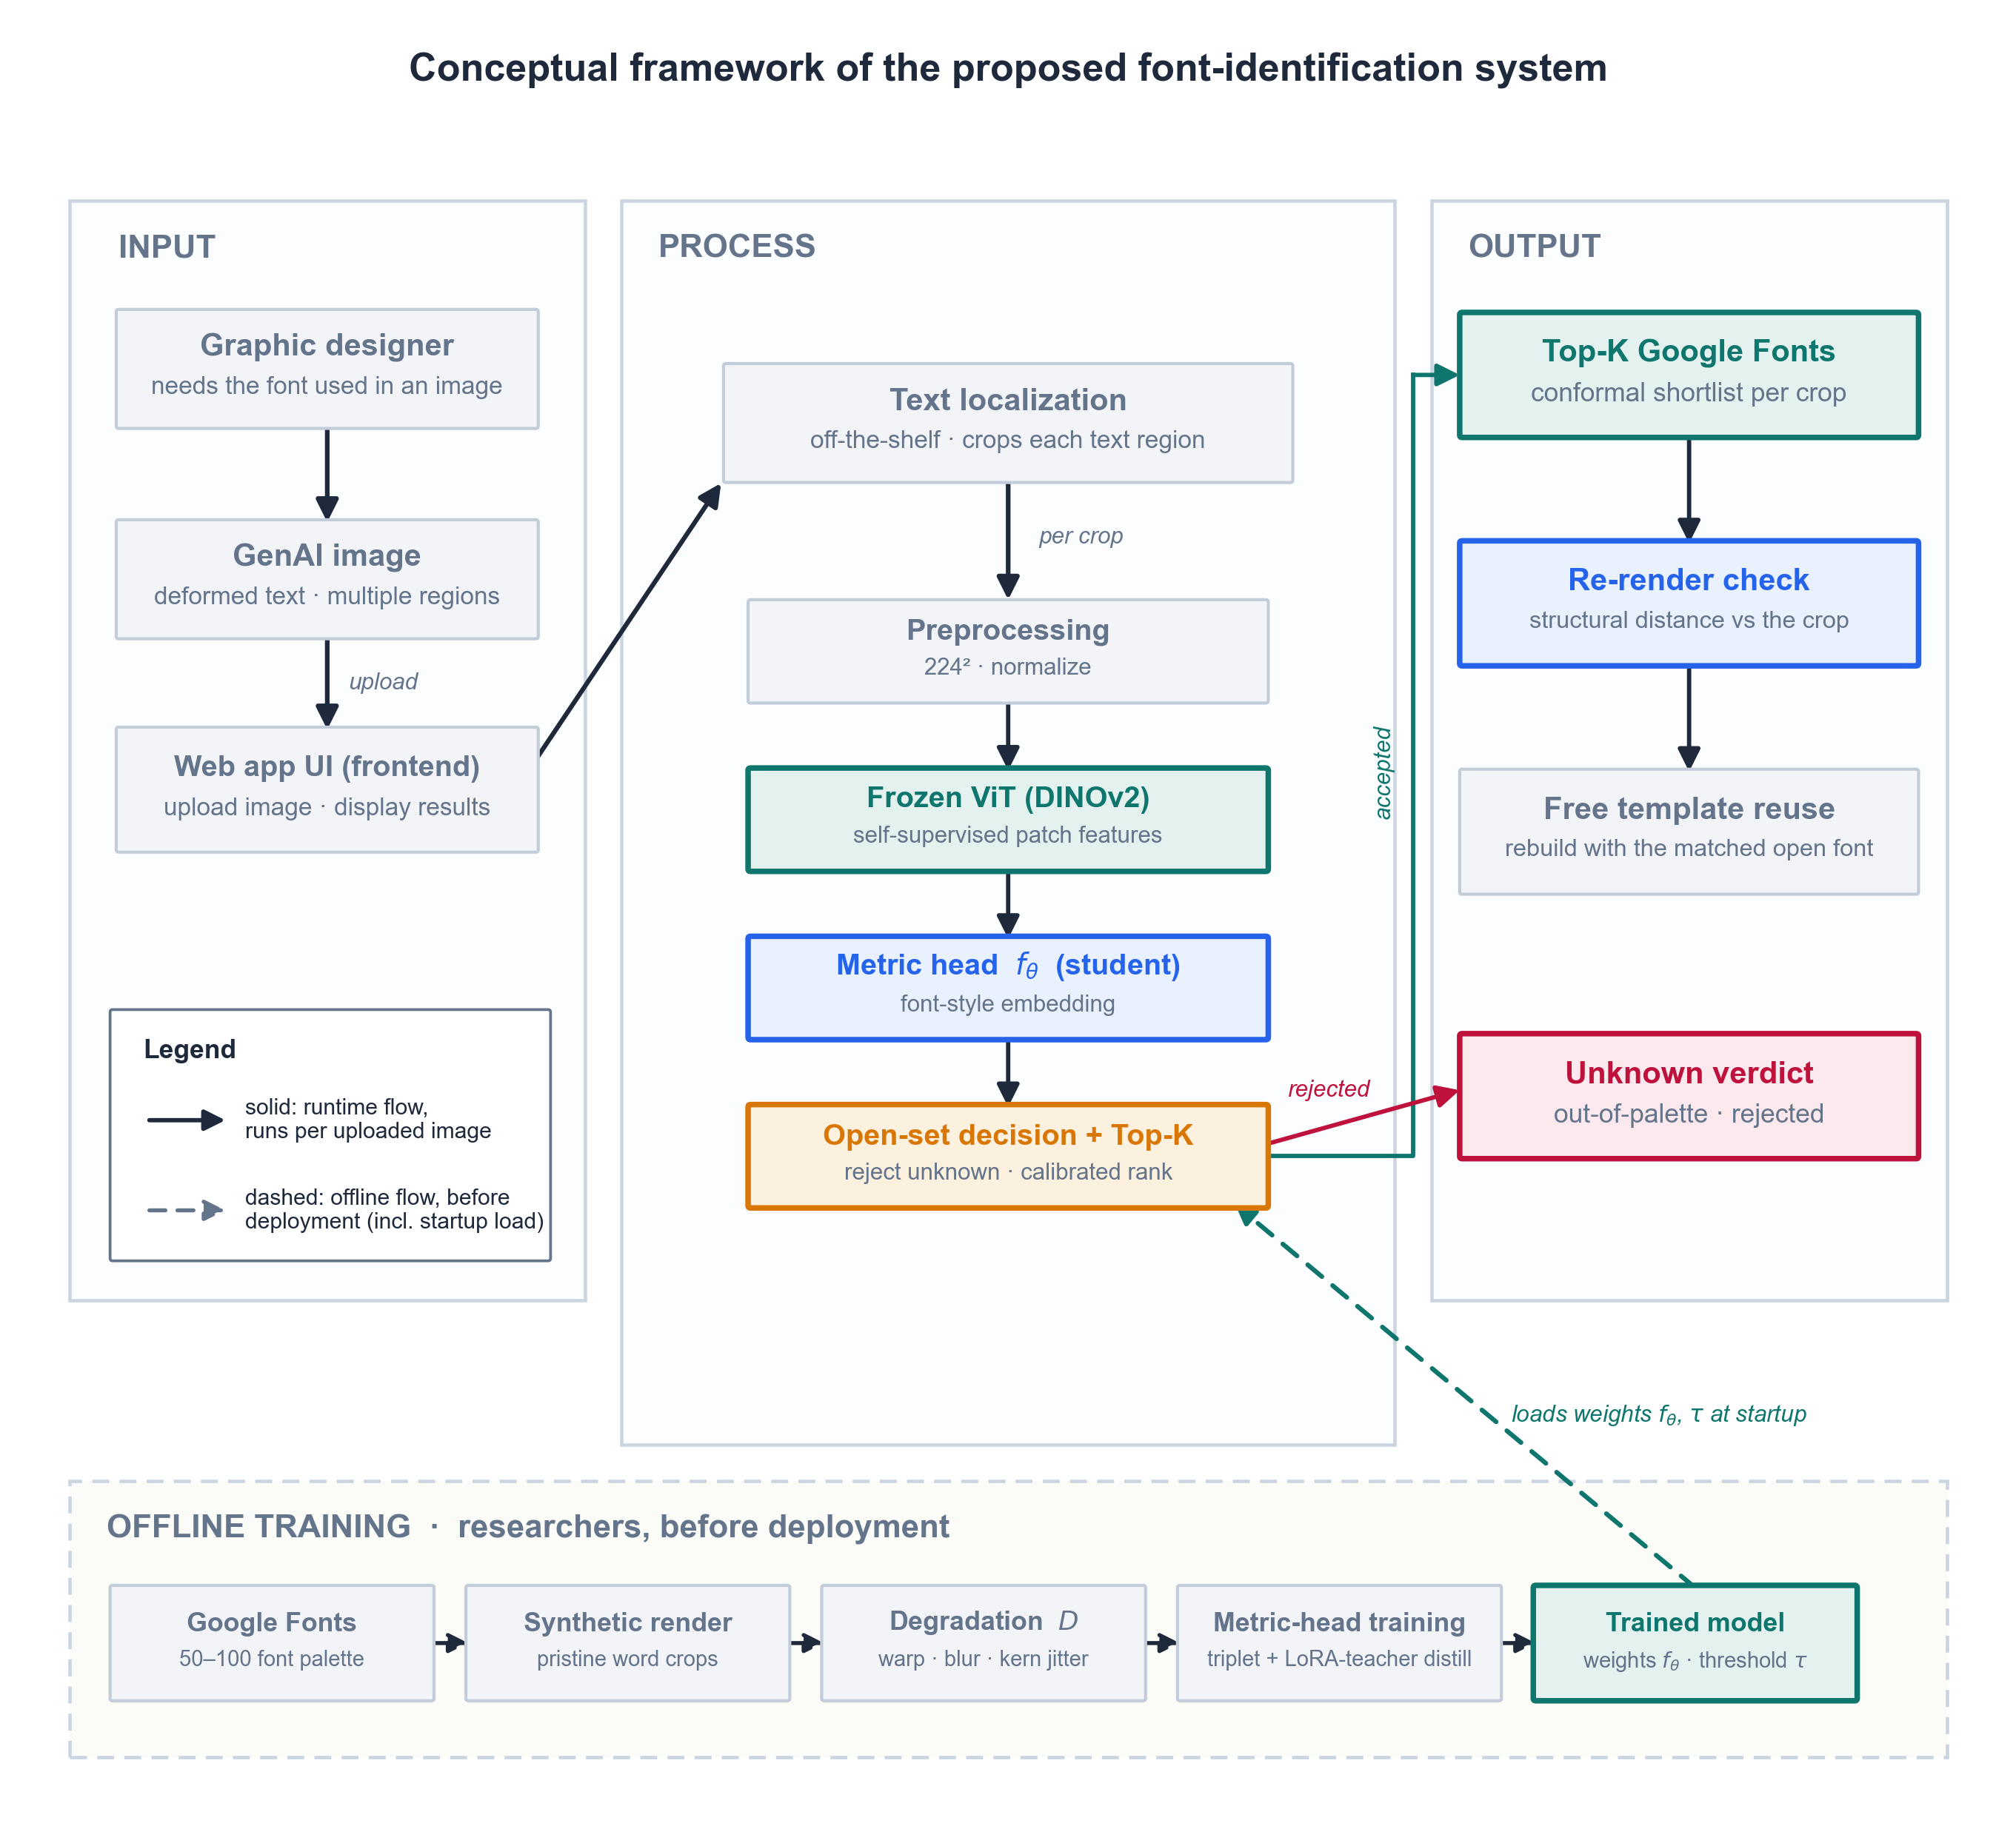
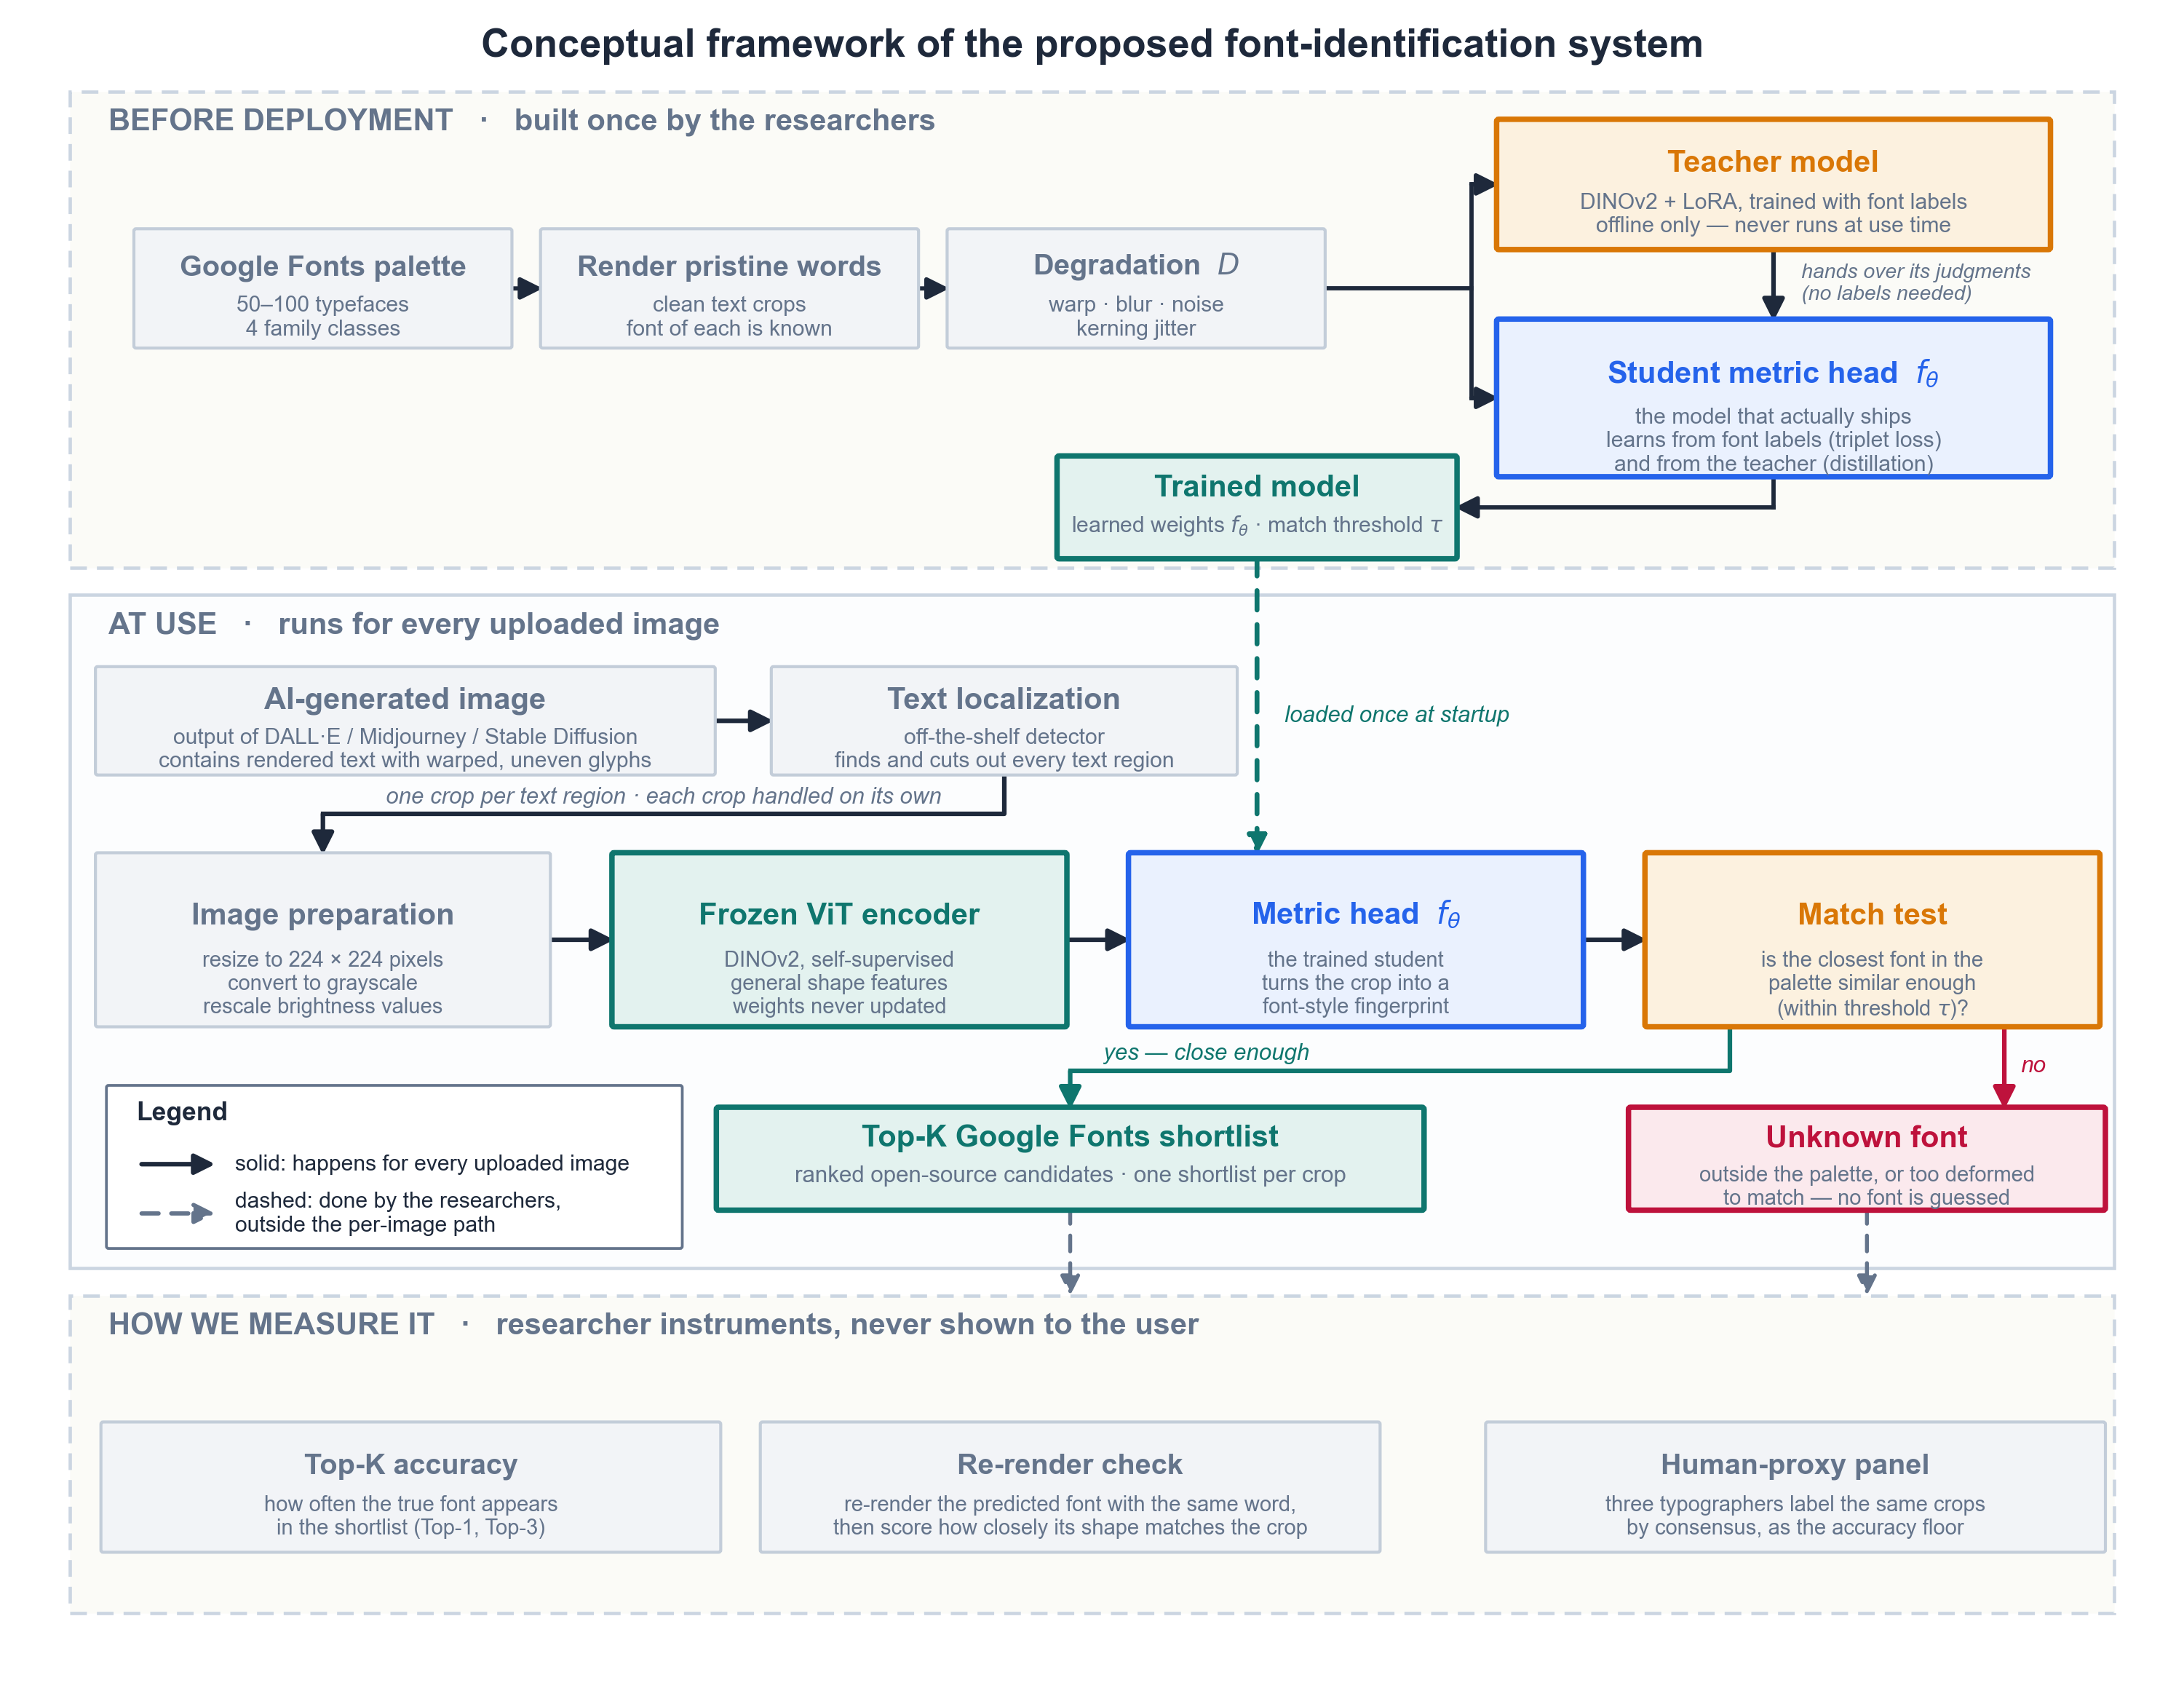
feat(methodology): update conceptual framework

Changed region(s): [[0.0312, 0.0, 0.968, 0.9654], [0.3747, 0.3114, 0.406, 0.3426], [0.3435, 0.2491, 0.3747, 0.2803]]

diff --git a/src/visualization/conceptual_framework.py b/src/visualization/conceptual_framework.py
@@ -1,14 +1,23 @@
-"""Figure 8 (Ch4) — Conceptual framework: IPO view of the font-identification
-system. Input column holds the designer, the GenAI image, and the web-app UI
-(the system boundary); the Process column is the backend recognition pipeline,
-the off-the-shelf localizer followed by the per-crop model stages; the Output
-column holds the verified shortlist / unknown verdict. An enclosed training band
-(render -> degrade -> triplet + LoRA-teacher distillation) ends in the trained
-model (weights f_theta + threshold tau) the engine loads at startup.
+"""Figure 8 (Ch4 §4.4.2) — Conceptual framework of the font-identification
+system, drawn as three horizontal bands rather than an input-process-output
+grid:
+
+  BEFORE DEPLOYMENT  (dashed)  palette -> render -> degrade -> teacher
+                               -> student -> trained model (f_theta, tau)
+  AT USE             (solid)   AI image -> localize -> per crop: prepare ->
+                               frozen ViT -> student head -> match test ->
+                               Top-K shortlist or "unknown font"
+  HOW WE MEASURE IT  (dashed)  Top-K accuracy, re-render check, human panel
+                               — researcher instruments, never user-facing
+
+Layout: the trained model sits directly above the runtime metric head so the
+startup hand-off is a single vertical dashed drop; the offline pipeline row is
+centred on the teacher/student fork; the re-render check is aligned under the
+Top-K shortlist it consumes.
 Contrast: faint bands < dimmed support boxes < full-colour element boxes.
 Line convention (drawn as an in-figure legend):
-  solid arrow  = runtime flow, runs for every uploaded image
-  dashed arrow = offline flow, run before deployment (incl. the startup load)
+  solid arrow  = runs for every uploaded image
+  dashed arrow = researcher-side, outside the per-image path
 Pure matplotlib: no Graphviz binary required."""
 import matplotlib.pyplot as plt
 import matplotlib.patches as mpatches
@@ -24,138 +33,179 @@ def _dashed_arrow(ax, p_from, p_to, color, lw=1.3):
 
 # Three contrast tiers: faint bands < dimmed support boxes < full element boxes.
 DIM = dict(fc="#F2F4F7", ec="#C3CDD9", tc=COLORS["muted"], lw=1.0)  # support
-BAND_FC = "#FCFDFE"        # lowest opacity, like the system-architecture bands
-CONTAINER_FC = "#FBFCFD"
 
 
-def _band(ax, x0, y0, x1, y1, label, dashed=False, fc=BAND_FC, label_x=None):
+def _band(ax, x0, y0, x1, y1, label, dashed=False, fc="#FCFDFE"):
     ls = (0, (5, 3)) if dashed else "solid"
     ax.add_patch(mpatches.Rectangle((x0, y0), x1 - x0, y1 - y0, fc=fc,
                                     ec="#CBD5E1", lw=1.1, linestyle=ls,
                                     zorder=0))
-    ax.text(label_x if label_x else x0 + 0.3, y1 - 0.4, label, ha="left",
-            va="center", fontsize=10.5, weight="bold", color=COLORS["muted"],
-            zorder=4)
+    ax.text(x0 + 0.35, y1 - 0.28, label, ha="left", va="center", fontsize=10,
+            weight="bold", color=COLORS["muted"], zorder=4)
 
 
 def create_figure():
     apply_style()
-    fig, ax = plt.subplots(figsize=(11.4, 10.4))
-    ax.set_xlim(0, 16)
-    ax.set_ylim(0, 14.8)
+    fig, ax = plt.subplots(figsize=(12.6, 9.7))
+    ax.set_xlim(0, 19.4)
+    ax.set_ylim(0, 14.9)
     ax.axis("off")
 
-    # ---- Enclosed bands ----
-    _band(ax, 0.35, 4.2, 4.55, 13.35, "INPUT", label_x=0.75)
-    _band(ax, 4.85, 3.0, 11.15, 13.35, "PROCESS")
-    _band(ax, 11.45, 4.2, 15.65, 13.35, "OUTPUT")
-    _band(ax, 0.35, 0.4, 15.65, 2.7,
-          "OFFLINE TRAINING  ·  researchers, before deployment",
+    _band(ax, 0.4, 9.95, 19.0, 14.3,
+          "BEFORE DEPLOYMENT   ·   built once by the researchers",
+          dashed=True, fc="#FBFBF7")
+    _band(ax, 0.4, 3.55, 19.0, 9.7,
+          "AT USE   ·   runs for every uploaded image")
+    _band(ax, 0.4, 0.4, 19.0, 3.3,
+          "HOW WE MEASURE IT   ·   researcher instruments, never shown to the user",
           dashed=True, fc="#FBFBF7")
 
-    # ---- INPUT: designer -> image -> web-app UI (system boundary) ----
-    draw_box(ax, 2.45, 11.95, 3.4, 0.95, "Graphic designer",
-             "needs the font used in an image", sub_fs=8, **DIM)
-    draw_box(ax, 2.45, 10.2, 3.4, 0.95, "GenAI image",
-             "deformed text · multiple regions", sub_fs=8, **DIM)
-    draw_box(ax, 2.45, 8.45, 3.4, 1.0, "Web app UI (frontend)",
-             "upload image · display results", fs=9.5, sub_fs=8, **DIM)
-    draw_arrow(ax, (2.45, 11.475), (2.45, 10.675), lw=1.5)
-    draw_arrow(ax, (2.45, 9.725), (2.45, 8.95), lw=1.5)
-    ax.text(2.62, 9.34, "upload", ha="left", va="center", fontsize=7.5,
-            color=COLORS["muted"], style="italic", zorder=4)
-    draw_arrow(ax, (4.15, 8.7), (5.66, 11.0), lw=1.5)    # UI -> localizer
-
-    # ---- Legend (two line kinds only) ----
-    ax.add_patch(mpatches.FancyBboxPatch(
-        (0.7, 4.55), 3.55, 2.05, boxstyle="round,pad=0.02", fc="white",
-        ec=COLORS["muted"], lw=0.9, zorder=3))
-    ax.text(0.95, 6.28, "Legend", ha="left", va="center", fontsize=8.5,
-            weight="bold", color=COLORS["ink"], zorder=4)
-    ax.annotate("", xy=(1.62, 5.7), xytext=(1.0, 5.7), zorder=5,
-                arrowprops=dict(arrowstyle="-|>", color=COLORS["ink"], lw=1.4,
-                                mutation_scale=14, shrinkA=0, shrinkB=0))
-    ax.text(1.78, 5.7, "solid: runtime flow,\nruns per uploaded image",
-            ha="left", va="center", fontsize=7.2, color=COLORS["ink"], zorder=4)
-    ax.annotate("", xy=(1.62, 4.95), xytext=(1.0, 4.95), zorder=5,
-                arrowprops=dict(arrowstyle="-|>", color=COLORS["muted"], lw=1.3,
-                                mutation_scale=14, shrinkA=0, shrinkB=0,
-                                linestyle=(0, (4, 3))))
-    ax.text(1.78, 4.95, "dashed: offline flow, before\ndeployment (incl. startup load)",
-            ha="left", va="center", fontsize=7.2, color=COLORS["ink"], zorder=4)
-
-    # ---- PROCESS: localizer, then the model stages (no nested containers) ----
-    draw_box(ax, 8.0, 11.5, 4.6, 0.95, "Text localization",
-             "off-the-shelf · crops each text region", sub_fs=8, **DIM)
-    draw_arrow(ax, (8.0, 11.025), (8.0, 10.03), lw=1.5)
-    ax.text(8.25, 10.55, "per crop", ha="left", va="center", fontsize=7.5,
-            color=COLORS["muted"], style="italic", zorder=4)
-
-    # Preprocessing = support (dim); the three model stages = element (full).
-    draw_box(ax, 8.0, 9.6, 4.2, 0.82, "Preprocessing", "224² · normalize",
-             fs=9.5, sub_fs=7.5, **DIM)
-    for cy, t, s, fc, ec in [
-        (8.2, "Frozen ViT (DINOv2)", "self-supervised patch features",
-         COLORS["teal_bg"], COLORS["teal"]),
-        (6.8, "Metric head  $f_\\theta$  (student)", "font-style embedding",
-         COLORS["blue_bg"], COLORS["blue"]),
-        (5.4, "Open-set decision + Top-K", "reject unknown · calibrated rank",
-         COLORS["orange_bg"], COLORS["orange"]),
-    ]:
-        draw_box(ax, 8.0, cy, 4.2, 0.82, t, s, fc=fc, ec=ec, tc=ec,
-                 fs=9.5, sub_fs=7.5, lw=1.8)
-    for y_from, y_to in [(9.19, 8.61), (7.79, 7.21), (6.39, 5.81)]:
-        draw_arrow(ax, (8.0, y_from), (8.0, y_to), lw=1.4)
-
-    # ---- OUTPUT: shortlist -> re-render check -> reuse, or unknown ----
-    draw_box(ax, 13.55, 11.9, 3.7, 1.0, "Top-K Google Fonts",
-             "conformal shortlist per crop", fc=COLORS["teal_bg"],
-             ec=COLORS["teal"], tc=COLORS["teal"], lw=1.8)
-    draw_box(ax, 13.55, 10.0, 3.7, 1.0, "Re-render check",
-             "structural distance vs the crop", fc=COLORS["blue_bg"],
-             ec=COLORS["blue"], tc=COLORS["blue"], sub_fs=7.8, lw=1.8)
-    draw_box(ax, 13.55, 8.1, 3.7, 1.0, "Free template reuse",
-             "rebuild with the matched open font", sub_fs=7.8, **DIM)
-    draw_box(ax, 13.55, 5.9, 3.7, 1.0, "Unknown verdict",
-             "out-of-palette · rejected", fc=COLORS["rose_bg"],
-             ec=COLORS["rose"], tc=COLORS["rose"], lw=1.8)
-
-    # decision -> Top-K (accepted, orthogonal riser) and -> Unknown (rejected)
-    ax.plot([10.1, 11.3, 11.3], [5.4, 5.4, 11.9], color=COLORS["teal"],
-            lw=1.4, zorder=2)
-    draw_arrow(ax, (11.3, 11.9), (11.68, 11.9), lw=1.4, color=COLORS["teal"])
-    ax.text(11.15, 8.6, "accepted", ha="right", va="center", fontsize=7.5,
-            color=COLORS["teal"], style="italic", rotation=90, zorder=4)
-    draw_arrow(ax, (10.1, 5.5), (11.68, 5.95), lw=1.4, color=COLORS["rose"])
-    ax.text(10.95, 5.95, "rejected", ha="right", va="center", fontsize=7.5,
-            color=COLORS["rose"], style="italic", zorder=4)
-    draw_arrow(ax, (13.55, 11.4), (13.55, 10.5), lw=1.4)
-    draw_arrow(ax, (13.55, 9.5), (13.55, 8.6), lw=1.4)
-
-    # ---- OFFLINE TRAINING band ----
-    # Pipeline steps = support (dim); the trained-model artifact = element (full).
+    # ================= BAND 1 — offline preparation =================
+    # Pipeline row, centred on the teacher/student fork midpoint.
     for cx, t, s in [
-        (2.0, "Google Fonts", "50–100 font palette"),
-        (4.9, "Synthetic render", "pristine word crops"),
-        (7.8, "Degradation  $D$", "warp · blur · kern jitter"),
-        (10.7, "Metric-head training", "triplet + LoRA-teacher distill"),
+        (2.7, "Google Fonts palette", "50–100 typefaces\n4 family classes"),
+        (6.4, "Render pristine words", "clean text crops\nfont of each is known"),
+        (10.1, "Degradation  $D$", "warp · blur · noise\nkerning jitter"),
     ]:
-        draw_box(ax, cx, 1.35, 2.6, 0.92, t, s, fs=8.6, sub_fs=7.0, **DIM)
-    draw_box(ax, 13.6, 1.35, 2.6, 0.92, "Trained model",
-             "weights $f_\\theta$ · threshold $\\tau$", fc=COLORS["teal_bg"],
-             ec=COLORS["teal"], tc=COLORS["teal"], fs=8.6, sub_fs=7.0, lw=1.8)
-    for cx in (3.3, 6.2, 9.1, 12.0):
-        _dashed_arrow(ax, (cx, 1.35), (cx + 0.3, 1.35), COLORS["ink"], lw=1.3)
+        draw_box(ax, cx, 12.5, 3.4, 1.05, t, s, fs=9.5, sub_fs=7.2, **DIM)
+    for x0, x1 in [(4.4, 4.7), (8.1, 8.4)]:
+        draw_arrow(ax, (x0, 12.5), (x1, 12.5), lw=1.4)
 
-    # trained model -> model stages (startup load)
-    _dashed_arrow(ax, (13.6, 1.81), (9.85, 5.0), COLORS["teal"], lw=1.5)
-    ax.text(12.1, 3.25, "loads weights $f_\\theta$, $\\tau$ at startup",
+    # degraded crops feed both the teacher and the student
+    ax.plot([11.8, 13.15], [12.5, 12.5], color=COLORS["ink"], lw=1.4,
+            zorder=2)
+    ax.plot([13.15, 13.15], [11.5, 13.45], color=COLORS["ink"], lw=1.4,
+            zorder=2)
+    draw_arrow(ax, (13.15, 13.45), (13.4, 13.45), lw=1.4)
+    draw_arrow(ax, (13.15, 11.5), (13.4, 11.5), lw=1.4)
+
+    draw_box(ax, 15.9, 13.45, 5.0, 1.15, "Teacher model",
+             "DINOv2 + LoRA, trained with font labels\n"
+             "offline only — never runs at use time",
+             fc=COLORS["orange_bg"], ec=COLORS["orange"], tc=COLORS["orange"],
+             fs=10, sub_fs=7.2, lw=1.8)
+    draw_box(ax, 15.9, 11.5, 5.0, 1.4, "Student metric head  $f_\\theta$",
+             "the model that actually ships\n"
+             "learns from font labels (triplet loss)\n"
+             "and from the teacher (distillation)",
+             fc=COLORS["blue_bg"], ec=COLORS["blue"], tc=COLORS["blue"],
+             fs=10, sub_fs=7.2, lw=1.8)
+    draw_arrow(ax, (15.9, 12.875), (15.9, 12.2), lw=1.5)
+    ax.text(16.15, 12.55, "hands over its judgments\n(no labels needed)",
+            ha="left", va="center", fontsize=6.8, color=COLORS["muted"],
+            style="italic", zorder=4)
+
+    # Trained model, aligned above the runtime metric head for a straight drop.
+    draw_box(ax, 11.2, 10.5, 3.6, 0.9, "Trained model",
+             "learned weights $f_\\theta$ · match threshold $\\tau$",
+             fc=COLORS["teal_bg"], ec=COLORS["teal"], tc=COLORS["teal"],
+             fs=10, sub_fs=7.2, lw=1.8)
+    ax.plot([15.9, 15.9], [10.8, 10.5], color=COLORS["ink"], lw=1.4,
+            zorder=2)
+    ax.plot([15.9, 13.2], [10.5, 10.5], color=COLORS["ink"], lw=1.4,
+            zorder=2)
+    draw_arrow(ax, (13.2, 10.5), (13.0, 10.5), lw=1.4)
+
+    # startup hand-off: the only link between the offline and runtime paths
+    _dashed_arrow(ax, (11.2, 10.05), (11.2, 7.325), COLORS["teal"], lw=1.6)
+    ax.text(11.45, 8.6, "loaded once at startup",
             ha="left", va="center", fontsize=7.5, color=COLORS["teal"],
             style="italic", zorder=4)
 
-    ax.text(8.0, 14.35,
+    # ================= BAND 2 — the per-image path =================
+    draw_box(ax, 3.45, 8.55, 5.6, 0.95, "AI-generated image",
+             "output of DALL·E / Midjourney / Stable Diffusion\n"
+             "contains rendered text with warped, uneven glyphs",
+             fs=10, sub_fs=7.2, **DIM)
+    draw_box(ax, 8.9, 8.55, 4.2, 0.95, "Text localization",
+             "off-the-shelf detector\nfinds and cuts out every text region",
+             fs=10, sub_fs=7.2, **DIM)
+    draw_arrow(ax, (6.25, 8.55), (6.8, 8.55), lw=1.5)
+
+    ax.plot([8.9, 8.9, 2.7], [8.075, 7.7, 7.7], color=COLORS["ink"],
+            lw=1.5, zorder=2)
+    draw_arrow(ax, (2.7, 7.7), (2.7, 7.325), lw=1.5)
+    ax.text(5.8, 7.76, "one crop per text region · each crop handled on its own",
+            ha="center", va="bottom", fontsize=7.5, color=COLORS["muted"],
+            style="italic", zorder=4)
+
+    draw_box(ax, 2.7, 6.55, 4.1, 1.55, "Image preparation",
+             "resize to 224 × 224 pixels\nconvert to grayscale\n"
+             "rescale brightness values",
+             fs=10, sub_fs=7.0, **DIM)
+    draw_box(ax, 7.4, 6.55, 4.1, 1.55, "Frozen ViT encoder",
+             "DINOv2, self-supervised\ngeneral shape features\n"
+             "weights never updated",
+             fc=COLORS["teal_bg"], ec=COLORS["teal"], tc=COLORS["teal"],
+             fs=10, sub_fs=7.0, lw=1.8)
+    draw_box(ax, 12.1, 6.55, 4.1, 1.55, "Metric head  $f_\\theta$",
+             "the trained student\nturns the crop into a\nfont-style fingerprint",
+             fc=COLORS["blue_bg"], ec=COLORS["blue"], tc=COLORS["blue"],
+             fs=10, sub_fs=7.0, lw=1.8)
+    draw_box(ax, 16.8, 6.55, 4.1, 1.55, "Match test",
+             "is the closest font in the\npalette similar enough\n"
+             "(within threshold $\\tau$)?",
+             fc=COLORS["orange_bg"], ec=COLORS["orange"], tc=COLORS["orange"],
+             fs=10, sub_fs=7.0, lw=1.8)
+    for x0, x1 in [(4.75, 5.35), (9.45, 10.05), (14.15, 14.75)]:
+        draw_arrow(ax, (x0, 6.55), (x1, 6.55), lw=1.5)
+
+    # the fork: a match, or no match at all
+    ax.plot([15.5, 15.5, 9.5], [5.775, 5.35, 5.35], color=COLORS["teal"],
+            lw=1.5, zorder=2)
+    draw_arrow(ax, (9.5, 5.35), (9.5, 5.0), lw=1.5, color=COLORS["teal"])
+    ax.text(9.8, 5.42, "yes — close enough", ha="left", va="bottom",
+            fontsize=7.5, color=COLORS["teal"], style="italic", zorder=4)
+    draw_arrow(ax, (18.0, 5.775), (18.0, 5.0), lw=1.5, color=COLORS["rose"])
+    ax.text(18.15, 5.4, "no", ha="left", va="center", fontsize=7.5,
+            color=COLORS["rose"], style="italic", zorder=4)
+
+    draw_box(ax, 9.5, 4.55, 6.4, 0.9, "Top-K Google Fonts shortlist",
+             "ranked open-source candidates · one shortlist per crop",
+             fc=COLORS["teal_bg"], ec=COLORS["teal"], tc=COLORS["teal"],
+             fs=10, sub_fs=7.5, lw=1.8)
+    draw_box(ax, 16.75, 4.55, 4.3, 0.9, "Unknown font",
+             "outside the palette, or too deformed\n"
+             "to match — no font is guessed",
+             fc=COLORS["rose_bg"], ec=COLORS["rose"], tc=COLORS["rose"],
+             fs=10, sub_fs=7.0, lw=1.8)
+
+    # ---- Legend (two line kinds only), in the free lower-left corner ----
+    ax.add_patch(mpatches.FancyBboxPatch(
+        (0.75, 3.75), 5.2, 1.45, boxstyle="round,pad=0.02", fc="white",
+        ec=COLORS["muted"], lw=0.9, zorder=3))
+    ax.text(1.0, 4.97, "Legend", ha="left", va="center", fontsize=8.5,
+            weight="bold", color=COLORS["ink"], zorder=4)
+    ax.annotate("", xy=(1.72, 4.5), xytext=(1.05, 4.5), zorder=5,
+                arrowprops=dict(arrowstyle="-|>", color=COLORS["ink"], lw=1.5,
+                                mutation_scale=14, shrinkA=0, shrinkB=0))
+    ax.text(1.9, 4.5, "solid: happens for every uploaded image",
+            ha="left", va="center", fontsize=7.2, color=COLORS["ink"], zorder=4)
+    ax.annotate("", xy=(1.72, 4.05), xytext=(1.05, 4.05), zorder=5,
+                arrowprops=dict(arrowstyle="-|>", color=COLORS["muted"], lw=1.4,
+                                mutation_scale=14, shrinkA=0, shrinkB=0,
+                                linestyle=(0, (4, 3))))
+    ax.text(1.9, 4.05, "dashed: done by the researchers,\noutside the per-image path",
+            ha="left", va="center", fontsize=7.2, color=COLORS["ink"], zorder=4)
+
+    # ================= BAND 3 — evaluation =================
+    for cx, t, s in [
+        (3.5, "Top-K accuracy",
+         "how often the true font appears\nin the shortlist (Top-1, Top-3)"),
+        (9.5, "Re-render check",
+         "re-render the predicted font with the same word,\n"
+         "then score how closely its shape matches the crop"),
+        (16.1, "Human-proxy panel",
+         "three typographers label the same crops\n"
+         "by consensus, as the accuracy floor"),
+    ]:
+        draw_box(ax, cx, 1.55, 5.6, 1.15, t, s, fs=9.5, sub_fs=7.0, **DIM)
+    _dashed_arrow(ax, (9.5, 4.1), (9.5, 3.3), COLORS["muted"], lw=1.3)
+    _dashed_arrow(ax, (16.75, 4.1), (16.75, 3.3), COLORS["muted"], lw=1.3)
+
+    ax.text(9.7, 14.62,
             "Conceptual framework of the proposed font-identification system",
-            fontsize=12.5, weight="bold", ha="center", color=COLORS["ink"])
+            fontsize=13, weight="bold", ha="center", color=COLORS["ink"])
 
     save_figure(fig, "conceptual_framework")
     plt.close(fig)

diff --git a/chapters/04-methodology/4.4-concept/draft.md b/chapters/04-methodology/4.4-concept/draft.md
@@ -6,15 +6,21 @@ The system is a font-identification service for hallucinated type. Given a fragm
 
 ### 4.4.2 Conceptual Framework
 
-The framework follows an input-process-output (IPO) structure, shown in Figure 8. The input column holds the graphic designer, the generative-AI image they supply, and the web-app UI through which they interact with the system. That image is a full scene, not a pre-cut crop: its text is probabilistically deformed, and it may hold several text regions, some set in fonts outside the palette. The web-app UI is drawn on the input side deliberately: it is the system boundary, not a processing stage, so it accepts the upload, hands it to the backend, and later displays whatever comes back. The process column is the backend API, which runs the recognition pipeline for each request. An off-the-shelf text localizer first isolates and crops each text region; the localizer is a standard component and not a contribution of this work, and the unit of analysis is the isolated crop, as stated in Section 4.1. Every crop then passes independently through the ML inference engine, the focus of this thesis: the crop is preprocessed, encoded by the frozen DINOv2 Vision Transformer, projected by the student metric head $f_\theta$ into a font-style embedding, and passed to the open-set decision that either rejects the crop as unknown or emits the calibrated Top-K ranking of the palette. On the output side, an accepted crop yields a Top-K Google Fonts shortlist that is checked by the re-render-and-compare instrument of Section 4.2.2 before the designer reuses the matched font freely, while a rejected crop yields an explicit unknown verdict. Because the engine runs per crop, an image with several text regions produces one shortlist or one verdict per region, which the web-app UI then displays to the designer. A separate offline subsystem, the researchers' synthetic rendering, degradation, and training pipeline, produces the trained model the engine loads, and appears as the enclosed lower band of the figure.
+Figure 8 organizes the framework into three enclosed bands, ordered by when each one happens rather than by an input-process-output grid. The first band, *before deployment*, is the work the researchers perform once. The Google Fonts palette is rendered into pristine word crops whose font is known by construction, those crops are passed through the degradation operator $D$ of Section 3.2.3 to produce hallucinated look-alikes, and the resulting corpus trains two models. A teacher model, DINOv2 with the LoRA adaptation of Section 4.3.2, is fitted to the font labels; the student metric head $f_\theta$ is trained on the same labels under the triplet objective of Chapter 3 and additionally learns from the teacher's judgments through distillation. The band closes on the trained model, meaning the learned weights $f_\theta$ together with the calibrated match threshold $\tau$. Only the student ships. The teacher exists to supervise it and is never executed on a user's image, which is why it is drawn in the offline band and appears nowhere in the band below.
+
+The second band, *at use*, is what runs for every uploaded image. The input is a raster image produced by a text-to-image generator such as DALL·E, Midjourney, or Stable Diffusion, containing rendered text whose glyphs are warped and whose spacing is uneven. An off-the-shelf text detector locates each text region and cuts it out; the detector is a standard component and not a contribution of this work, and the unit of analysis is the isolated crop, as stated in Section 4.1. The number of text regions in the image is therefore a property the localizer resolves, and every crop it emits is handled independently from that point on. Each crop is resized to 224 by 224 pixels, converted to grayscale, and rescaled in brightness, then encoded by the frozen DINOv2 Vision Transformer and projected by the metric head into a font-style fingerprint. The final stage is a match test: the fingerprint is compared against the palette, and the outcome depends on whether the closest font falls within the threshold $\tau$. A crop that passes yields a Top-K shortlist of Google Fonts, one shortlist per text region. A crop that fails yields an explicit "unknown font" verdict, in which the system names no font at all.
+
+That verdict deserves a precise reading, because it carries a genuine ambiguity. An unknown verdict means the crop resembled no palette font closely enough to justify a name, and the system cannot distinguish between the two situations that produce this: the text may be set in a typeface outside the 50 to 100 selected fonts, or it may be hallucinated past the point where any typeface is recoverable. Both surface identically. What the verdict does guarantee is the behavior that motivates the open-set design of Section 4.2.1, namely that no font is invented to fill the gap, which is precisely what a closed-set classifier is forced to do.
+
+The third band, *how we measure it*, holds the researcher instruments of Section 4.2 rather than any part of the served system. Top-K accuracy records how often the true font appears in the shortlist, the re-render check scores the structural distance between a re-rendering of the predicted font and the original crop, and the human-proxy panel supplies the accuracy floor. These run offline over held-out evaluation sets and produce no output the designer ever sees.
 
 **Figure 8**
 
 *Conceptual Framework of the Proposed Font-Identification System*
 
-![Input-process-output diagram with three enclosed columns and an enclosed offline-training band. Input: a graphic designer supplies a GenAI image with deformed text through the web-app UI, the system boundary. Process: the backend recognition pipeline runs an off-the-shelf text localizer and then, per crop, preprocessing, a frozen DINOv2 encoder, the student metric head, and the open-set decision. Output: an accepted crop yields a conformal Top-K Google Fonts shortlist, checked by a re-render structural comparison and then reused freely; a rejected crop yields an unknown verdict. Below, the offline training band (Google Fonts palette, synthetic render, degradation, metric-head training with triplet loss and LoRA-teacher distillation) ends in the trained model whose weights and threshold load into the engine at startup. An in-figure legend defines solid arrows as runtime flow and dashed arrows as offline flow](../../../assets/figures/conceptual_framework.png)
+![Diagram with three enclosed horizontal bands. Top band, before deployment: the Google Fonts palette is rendered into pristine word crops, degraded by the operator D, and used to train a teacher model (DINOv2 with LoRA, offline only) and a student metric head f-theta, which learns from font labels through triplet loss and from the teacher through distillation; the band ends in the trained model, meaning the weights f-theta and the match threshold tau. A dashed arrow carries that model into the middle band, loaded once at startup. Middle band, at use: an AI-generated image from DALL-E, Midjourney, or Stable Diffusion passes through off-the-shelf text localization, which cuts out every text region; each crop is then resized to 224 by 224 pixels, converted to grayscale and rescaled in brightness, encoded by the frozen DINOv2 Vision Transformer, projected by the metric head into a font-style fingerprint, and put to a match test against the threshold tau. Passing crops yield a Top-K Google Fonts shortlist, one per crop; failing crops yield an unknown-font verdict in which no font is guessed. Bottom band, how we measure it: Top-K accuracy, the re-render check, and the human-proxy panel, marked as researcher instruments never shown to the user. An in-figure legend defines solid arrows as the per-image path and dashed arrows as researcher-side work outside it](../../../assets/figures/conceptual_framework.png)
 
-Figure 8 is read through its line convention, stated in the legend. Solid arrows mark the runtime path, which runs for every uploaded image: from the upload in the web-app UI through the backend's localizer and inference engine, out to the verified shortlist or the unknown verdict. The web-app UI sits at the system boundary on the input side, where the designer both submits the image and reads the returned result. Dashed arrows mark the offline path, which the researchers run once before deployment: the Google Fonts palette is rendered, degraded by the operator $D$, and used to train the metric head with the triplet objective of Chapter 3 together with distillation from the LoRA-tuned teacher of Section 4.3.2, ending in the trained model (the learned weights $f_\theta$ and the calibrated rejection threshold $\tau$). The two paths meet at exactly one point: at startup the engine loads the trained model, a hand-off drawn dashed because it precedes, rather than belongs to, the per-request flow. The localizer stays inside the runtime path with a solid border because it runs live on every request; it is off-the-shelf and replaceable, which keeps the thesis focused on the recognition that follows it. This separation is what lets the same model serve real-time web requests while remaining fully reproducible from the researcher-controlled data pipeline.
+The figure is read through the line convention stated in its legend. Solid arrows mark the per-image path, meaning every step that executes when a designer submits an image. Dashed arrows mark researcher-side work that sits outside that path, covering both the preparation band above and the measurement band below. The two kinds of flow meet at exactly one point, where the trained model is loaded into the running system at startup, and that hand-off is drawn dashed because it precedes the per-image path rather than belonging to it. The localization step stays solid because it does execute live on every request, even though it is off-the-shelf and replaceable, which keeps the thesis focused on the recognition that follows it. Two absences in the figure are deliberate. The web application does not appear, because it is a delivery surface rather than a conceptual stage and is specified instead in the system architecture of Section 4.5.2. The measurement band is drawn outside the per-image path for the same reason the re-render check is not a runtime step: the structural comparison of Section 4.2.2 is a validation instrument the researchers apply to held-out data, and it neither re-ranks the shortlist nor reaches the designer. This separation is what lets the same model serve live requests while remaining fully reproducible from the researcher-controlled data pipeline.
 
 ### 4.4.3 Value Proposition
 

diff --git a/chapters/04-methodology/draft.md b/chapters/04-methodology/draft.md
@@ -103,15 +103,21 @@ The system is a font-identification service for hallucinated type. Given a fragm
 
 ### 4.4.2 Conceptual Framework
 
-The framework follows an input-process-output (IPO) structure, shown in Figure 8. The input column holds the graphic designer, the generative-AI image they supply, and the web-app UI through which they interact with the system. That image is a full scene, not a pre-cut crop: its text is probabilistically deformed, and it may hold several text regions, some set in fonts outside the palette. The web-app UI is drawn on the input side deliberately: it is the system boundary, not a processing stage, so it accepts the upload, hands it to the backend, and later displays whatever comes back. The process column is the backend API, which runs the recognition pipeline for each request. An off-the-shelf text localizer first isolates and crops each text region; the localizer is a standard component and not a contribution of this work, and the unit of analysis is the isolated crop, as stated in Section 4.1. Every crop then passes independently through the ML inference engine, the focus of this thesis: the crop is preprocessed, encoded by the frozen DINOv2 Vision Transformer, projected by the student metric head $f_\theta$ into a font-style embedding, and passed to the open-set decision that either rejects the crop as unknown or emits the calibrated Top-K ranking of the palette. On the output side, an accepted crop yields a Top-K Google Fonts shortlist that is checked by the re-render-and-compare instrument of Section 4.2.2 before the designer reuses the matched font freely, while a rejected crop yields an explicit unknown verdict. Because the engine runs per crop, an image with several text regions produces one shortlist or one verdict per region, which the web-app UI then displays to the designer. A separate offline subsystem, the researchers' synthetic rendering, degradation, and training pipeline, produces the trained model the engine loads, and appears as the enclosed lower band of the figure.
+Figure 8 organizes the framework into three enclosed bands, ordered by when each one happens rather than by an input-process-output grid. The first band, *before deployment*, is the work the researchers perform once. The Google Fonts palette is rendered into pristine word crops whose font is known by construction, those crops are passed through the degradation operator $D$ of Section 3.2.3 to produce hallucinated look-alikes, and the resulting corpus trains two models. A teacher model, DINOv2 with the LoRA adaptation of Section 4.3.2, is fitted to the font labels; the student metric head $f_\theta$ is trained on the same labels under the triplet objective of Chapter 3 and additionally learns from the teacher's judgments through distillation. The band closes on the trained model, meaning the learned weights $f_\theta$ together with the calibrated match threshold $\tau$. Only the student ships. The teacher exists to supervise it and is never executed on a user's image, which is why it is drawn in the offline band and appears nowhere in the band below.
+
+The second band, *at use*, is what runs for every uploaded image. The input is a raster image produced by a text-to-image generator such as DALL·E, Midjourney, or Stable Diffusion, containing rendered text whose glyphs are warped and whose spacing is uneven. An off-the-shelf text detector locates each text region and cuts it out; the detector is a standard component and not a contribution of this work, and the unit of analysis is the isolated crop, as stated in Section 4.1. The number of text regions in the image is therefore a property the localizer resolves, and every crop it emits is handled independently from that point on. Each crop is resized to 224 by 224 pixels, converted to grayscale, and rescaled in brightness, then encoded by the frozen DINOv2 Vision Transformer and projected by the metric head into a font-style fingerprint. The final stage is a match test: the fingerprint is compared against the palette, and the outcome depends on whether the closest font falls within the threshold $\tau$. A crop that passes yields a Top-K shortlist of Google Fonts, one shortlist per text region. A crop that fails yields an explicit "unknown font" verdict, in which the system names no font at all.
+
+That verdict deserves a precise reading, because it carries a genuine ambiguity. An unknown verdict means the crop resembled no palette font closely enough to justify a name, and the system cannot distinguish between the two situations that produce this: the text may be set in a typeface outside the 50 to 100 selected fonts, or it may be hallucinated past the point where any typeface is recoverable. Both surface identically. What the verdict does guarantee is the behavior that motivates the open-set design of Section 4.2.1, namely that no font is invented to fill the gap, which is precisely what a closed-set classifier is forced to do.
+
+The third band, *how we measure it*, holds the researcher instruments of Section 4.2 rather than any part of the served system. Top-K accuracy records how often the true font appears in the shortlist, the re-render check scores the structural distance between a re-rendering of the predicted font and the original crop, and the human-proxy panel supplies the accuracy floor. These run offline over held-out evaluation sets and produce no output the designer ever sees.
 
 **Figure 8**
 
 *Conceptual Framework of the Proposed Font-Identification System*
 
-![Input-process-output diagram with three enclosed columns and an enclosed offline-training band. Input: a graphic designer supplies a GenAI image with deformed text through the web-app UI, the system boundary. Process: the backend recognition pipeline runs an off-the-shelf text localizer and then, per crop, preprocessing, a frozen DINOv2 encoder, the student metric head, and the open-set decision. Output: an accepted crop yields a conformal Top-K Google Fonts shortlist, checked by a re-render structural comparison and then reused freely; a rejected crop yields an unknown verdict. Below, the offline training band (Google Fonts palette, synthetic render, degradation, metric-head training with triplet loss and LoRA-teacher distillation) ends in the trained model whose weights and threshold load into the engine at startup. An in-figure legend defines solid arrows as runtime flow and dashed arrows as offline flow](../../assets/figures/conceptual_framework.png)
+![Diagram with three enclosed horizontal bands. Top band, before deployment: the Google Fonts palette is rendered into pristine word crops, degraded by the operator D, and used to train a teacher model (DINOv2 with LoRA, offline only) and a student metric head f-theta, which learns from font labels through triplet loss and from the teacher through distillation; the band ends in the trained model, meaning the weights f-theta and the match threshold tau. A dashed arrow carries that model into the middle band, loaded once at startup. Middle band, at use: an AI-generated image from DALL-E, Midjourney, or Stable Diffusion passes through off-the-shelf text localization, which cuts out every text region; each crop is then resized to 224 by 224 pixels, converted to grayscale and rescaled in brightness, encoded by the frozen DINOv2 Vision Transformer, projected by the metric head into a font-style fingerprint, and put to a match test against the threshold tau. Passing crops yield a Top-K Google Fonts shortlist, one per crop; failing crops yield an unknown-font verdict in which no font is guessed. Bottom band, how we measure it: Top-K accuracy, the re-render check, and the human-proxy panel, marked as researcher instruments never shown to the user. An in-figure legend defines solid arrows as the per-image path and dashed arrows as researcher-side work outside it](../../assets/figures/conceptual_framework.png)
 
-Figure 8 is read through its line convention, stated in the legend. Solid arrows mark the runtime path, which runs for every uploaded image: from the upload in the web-app UI through the backend's localizer and inference engine, out to the verified shortlist or the unknown verdict. The web-app UI sits at the system boundary on the input side, where the designer both submits the image and reads the returned result. Dashed arrows mark the offline path, which the researchers run once before deployment: the Google Fonts palette is rendered, degraded by the operator $D$, and used to train the metric head with the triplet objective of Chapter 3 together with distillation from the LoRA-tuned teacher of Section 4.3.2, ending in the trained model (the learned weights $f_\theta$ and the calibrated rejection threshold $\tau$). The two paths meet at exactly one point: at startup the engine loads the trained model, a hand-off drawn dashed because it precedes, rather than belongs to, the per-request flow. The localizer stays inside the runtime path with a solid border because it runs live on every request; it is off-the-shelf and replaceable, which keeps the thesis focused on the recognition that follows it. This separation is what lets the same model serve real-time web requests while remaining fully reproducible from the researcher-controlled data pipeline.
+The figure is read through the line convention stated in its legend. Solid arrows mark the per-image path, meaning every step that executes when a designer submits an image. Dashed arrows mark researcher-side work that sits outside that path, covering both the preparation band above and the measurement band below. The two kinds of flow meet at exactly one point, where the trained model is loaded into the running system at startup, and that hand-off is drawn dashed because it precedes the per-image path rather than belonging to it. The localization step stays solid because it does execute live on every request, even though it is off-the-shelf and replaceable, which keeps the thesis focused on the recognition that follows it. Two absences in the figure are deliberate. The web application does not appear, because it is a delivery surface rather than a conceptual stage and is specified instead in the system architecture of Section 4.5.2. The measurement band is drawn outside the per-image path for the same reason the re-render check is not a runtime step: the structural comparison of Section 4.2.2 is a validation instrument the researchers apply to held-out data, and it neither re-ranks the shortlist nor reaches the designer. This separation is what lets the same model serve live requests while remaining fully reproducible from the researcher-controlled data pipeline.
 
 ### 4.4.3 Value Proposition
 